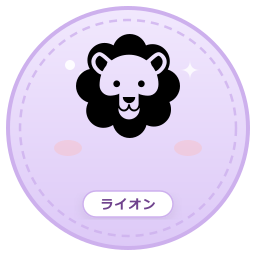
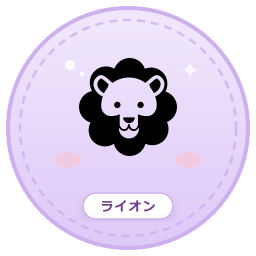
style: 動物イラストを大きく下方オフセットし上下余白を完全均等に調整

diff --git a/scripts/generate-animal-icons.js b/scripts/generate-animal-icons.js
@@ -66,17 +66,17 @@ async function generate() {
         <circle cx="82" cy="74" r="2.5" fill="#FFFFFF" opacity="0.8" />
         <path d="M190 60 Q190 70 200 70 Q190 70 190 80 Q190 70 180 70 Q190 70 190 60 Z" fill="#FFFFFF" opacity="0.8" />
 
-        <!-- ほんのりピンクのほっぺチーク（愛嬌アップ） -->
-        <ellipse cx="68" cy="148" rx="14" ry="8" fill="#FFB7B2" opacity="0.35" />
-        <ellipse cx="188" cy="148" rx="14" ry="8" fill="#FFB7B2" opacity="0.35" />
+        <!-- ほんのりピンクのほっぺチーク（イラスト位置に合わせて下方向へオフセット） -->
+        <ellipse cx="68" cy="160" rx="14" ry="8" fill="#FFB7B2" opacity="0.35" />
+        <ellipse cx="188" cy="160" rx="14" ry="8" fill="#FFB7B2" opacity="0.35" />
 
-        <!-- 中央の動物絵文字（上下余白均等の真中心に調整: y=138） -->
-        <text x="128" y="138" font-size="104" text-anchor="middle" dominant-baseline="central">
+        <!-- 中央の動物絵文字（視覚的な上下余白が完全に均等になるよう y=156 へ大きく下方オフセット） -->
+        <text x="128" y="156" font-size="98" text-anchor="middle" dominant-baseline="central">
           ${item.emoji}
         </text>
         
         <!-- ゆるかわ下部ラベルバッジ（マシュマロ・もっちりピルバッジ） -->
-        <g transform="translate(128, 204)" filter="url(#soft-shadow)">
+        <g transform="translate(128, 206)" filter="url(#soft-shadow)">
           <rect x="-45" y="-13" width="90" height="26" rx="13" fill="${item.badgeBg}" stroke="${item.border}" stroke-width="1.5" />
           <text x="0" y="5" font-family="'Hiragino Maru Gothic ProN', 'Rounded Mplus 1c', 'Meiryo', sans-serif" font-size="13" font-weight="900" fill="${item.badgeText}" text-anchor="middle" letter-spacing="1">
             ${item.label}
@@ -92,7 +92,7 @@ async function generate() {
 }
 
 generate()
-  .then(() => console.log('Successfully generated all 16 pastel-pop animal icon images!'))
+  .then(() => console.log('Successfully regenerated all 16 pastel-pop animal icon images!'))
   .catch((err) => {
     console.error('Error generating pastel-pop animal icons:', err);
     process.exit(1);
